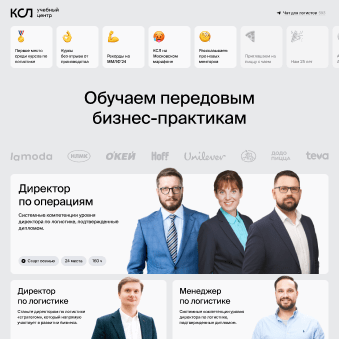
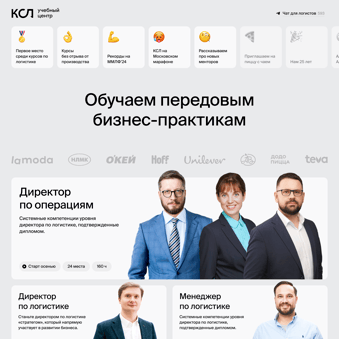
Home: smaller card mockups, new previews, rewritten year captions, впн note
- Card mockups at 80% width with 15% top and 10% side insets; centred,
  Almaz and multi-screenshot cards scaled to match; centred mockups
  sit 1% above centre
- New ReIndustry Expo and Учебный центр КСЛ previews
- ReIndustry colour #6C7E94 on the card, project page and theme-color
- Year captions rewritten, "студии Scada" as the link, Dribbble and
  Behance in Latin; non-breaking spaces after prepositions
- Gray "впн" note on hover next to Telegram and Марки Урала
- Cafe guide date in the primary text colour

diff --git a/index.html b/index.html
@@ -68,19 +68,19 @@
       </div>
       <nav class="navigation">
         <ul>
-          <li class="mainmenu__item"><a class="link" href="https://t.me/mshchr">Телеграм</a></li>
-          <li class="mainmenu__item"><a class="link" href="https://www.instagram.com/mxmeshcher">Марки Урала</a></li>
+          <li class="mainmenu__item"><a class="link" href="https://t.me/mshchr">Телеграм</a><span class="mainmenu__note">впн</span></li>
+          <li class="mainmenu__item"><a class="link" href="https://www.instagram.com/mxmeshcher">Марки Урала</a><span class="mainmenu__note">впн</span></li>
           <li class="mainmenu__item"><a class="link" href="cafes-moscow.html">Кофейни Москвы</a></li>
         </ul>
       </nav>
     </div>
-    <div class="feature"><span>В&nbsp;работе преследую чистоту и&nbsp;ясность. Мой&nbsp;подход инженерный, а&nbsp;не творческий. Отдельно люблю проекты, цель которых не&nbsp;только заработать.</span></div>
+    <div class="feature"><span>В&nbsp;работе преследую чистоту и&nbsp;ясность. Мой&nbsp;подход инженерный, а&nbsp;не&nbsp;творческий. Отдельно люблю проекты, цель которых не&nbsp;только заработать.</span></div>
     <div class="line"></div>
   </header>
   <main class="content">
         <section class="sideblock">
           <div class="sideblock__descr work__descr emerge" data-effect="slide" data-left="1em" data-duration="400">
-            <div class="sideblock__absolute"><div class="year">2016 — 2026</div><span>Клиентские сайты и&nbsp;веб-приложения, продукты студии <a href="https://www.scada.lv/">Scada</a></span></div>
+            <div class="sideblock__absolute"><div class="year">2016 — 2026</div><span>Проектирование и&nbsp;дизайн клиентских сайтов, веб-приложений и&nbsp;собственных продуктов <a href="https://www.scada.lv/">студии Scada</a></span></div>
           </div>
           <div class="project project--multi-octopus project--center project--full project--free-octopus emerge" data-ignore-media="true" data-effect="slide" data-up="4em" data-duration="400"><a href="octopus.html"><img fetchpriority="high" src="img/project-octopus-03-og.png" srcset="img/project-octopus-03-og.png 576w, img/project-octopus-03@2.png 1152w, img/project-octopus-03@3.png 2304w" sizes="(max-width: 767px) 70vw, (max-width: 1024px) 68vw, 46vw"><img fetchpriority="high" src="img/project-octopus-02-og.png" srcset="img/project-octopus-02-og.png 576w, img/project-octopus-02@2.png 1152w, img/project-octopus-02@3.png 2304w" sizes="(max-width: 767px) 70vw, (max-width: 1024px) 68vw, 46vw"><img fetchpriority="high" src="img/project-octopus-og.png" srcset="img/project-octopus-og.png 576w, img/project-octopus@2.png 1152w, img/project-octopus@3.png 2304w" sizes="(max-width: 767px) 78vw, (max-width: 1024px) 75vw, 51vw"></a><a class="project__caption" href="octopus.html"><span class="project__caption-fold"><span>Конструктор карт сайтов&nbsp;</span></span>Octopus</a>
           </div>
@@ -98,7 +98,7 @@
         </section>
         <section class="sideblock">
           <div class="sideblock__descr work__descr emerge" data-effect="slide" data-left="1em" data-duration="400">
-            <div class="sideblock__absolute"><div class="year">2024 — 2025</div><span>Проекты с командой <a href="https://www.ccl-logistics.ru/">КСЛ</a>, которые требовали расширенных компетенций дизайнера</span></div>
+            <div class="sideblock__absolute"><div class="year">2024 — 2025</div><span>Проекты с&nbsp;командой <a href="https://www.ccl-logistics.ru/">Координационного совета по&nbsp;логистике</a>, которые требовали от&nbsp;дизайнера дополнительных компетенций</span></div>
           </div>
           <div class="project project--multi-reindustry project--full project--free-reindustry emerge" data-ignore-media="true" data-effect="slide" data-up="4em" data-duration="400"><a href="reindustry.html"><img loading="lazy" src="img/project-reindustry-01-og.png" srcset="img/project-reindustry-01-og.png 600w, img/project-reindustry-01@2.png 1200w, img/project-reindustry-01@3.png 2400w" sizes="(max-width: 767px) 68vw, (max-width: 1024px) 56vw, 38vw"><img loading="lazy" src="img/project-reindustry-02-og.png" srcset="img/project-reindustry-02-og.png 350w, img/project-reindustry-02@2.png 700w, img/project-reindustry-02@3.png 1400w" sizes="(max-width: 767px) 54vw, (max-width: 1024px) 42vw, 29vw"></a><a class="project__caption" href="reindustry.html"><span class="project__caption-fold"><span>Выставка&nbsp;</span></span>ReIndustry</a>
           </div>
@@ -113,7 +113,7 @@
         </section>
         <section class="sideblock">
           <div class="sideblock__descr work__descr emerge" data-effect="slide" data-left="1em" data-duration="400">
-            <div class="sideblock__absolute"><div class="year">2020</div></h2><span>Сайты, концепции и&nbsp;арт-директинг отдельных проектов для&nbsp;старых клиентов</span></div>
+            <div class="sideblock__absolute"><div class="year">2020</div></h2><span>Новые проекты для&nbsp;прежних клиентов: дизайн сайтов, разработка концепций и&nbsp;арт-дирекшн</span></div>
           </div>
           <div class="project project--traktor emerge" data-ignore-media="true" data-effect="slide" data-up="4em" data-duration="400"><a href="traktor.html"><img loading="lazy" src="img/project-traktor-og.jpg" srcset="img/project-traktor-og.jpg 400w, img/project-traktor@2.jpg 800w, img/project-traktor@3.jpg 1600w" sizes="(max-width: 767px) 78vw, (max-width: 1024px) 38vw, 26vw"></a><a class="project__caption" href="traktor.html"><span class="project__caption-fold"><span>ХК&nbsp;«</span></span>Трактор<span class="project__caption-fold"><span>»</span></span></a>
           </div>
@@ -122,7 +122,7 @@
         </section>
         <section class="sideblock">
           <div class="sideblock__descr work__descr emerge" data-effect="slide" data-left="1em" data-duration="400">
-            <div class="sideblock__absolute"><div class="year">2015 — 2016</div><span>Сайты, веб-приложения, брендинг для&nbsp;клиентов с&nbsp;<a href="https://dribbble.com/lumpur">Дриббла</a> и&nbsp;<a href="https://www.behance.net/meshcheryakov">Биханса</a></span></div>
+            <div class="sideblock__absolute"><div class="year">2015 — 2016</div><span>Дизайн сайтов и&nbsp;брендинг для&nbsp;клиентов с&nbsp;<a href="https://dribbble.com/lumpur">Dribbble</a> и&nbsp;<a href="https://www.behance.net/meshcheryakov">Behance</a></span></div>
           </div>
           <div class="project project--multi project--full project--free emerge" data-ignore-media="true" data-effect="slide" data-up="4em" data-duration="400"><a href="thegem.html"><img loading="lazy" src="img/project-thegem-01-og.jpg" srcset="img/project-thegem-01-og.jpg 400w, img/project-thegem-01@2.jpg 800w, img/project-thegem-01@3.jpg 1600w" sizes="(max-width: 767px) 58vw, (max-width: 1024px) 48vw, 33vw"><img loading="lazy" src="img/project-thegem-02-og.jpg" srcset="img/project-thegem-02-og.jpg 400w, img/project-thegem-02@2.jpg 800w, img/project-thegem-02@3.jpg 1600w" sizes="(max-width: 767px) 54vw, (max-width: 1024px) 42vw, 29vw"><img loading="lazy" src="img/project-thegem-03-og.jpg" srcset="img/project-thegem-03-og.jpg 400w, img/project-thegem-03@2.jpg 800w, img/project-thegem-03@3.jpg 1600w" sizes="(max-width: 767px) 54vw, (max-width: 1024px) 42vw, 29vw"></a><a class="project__caption" href="thegem.html"><span class="project__caption-fold"><span>Шаблоны сайтов&nbsp;</span></span>The Gem</a>
           </div>
@@ -133,7 +133,7 @@
         </section>
         <section class="sideblock">
           <div class="sideblock__descr work__descr emerge" data-effect="slide" data-left="1em" data-duration="400">
-            <div class="sideblock__absolute"><div class="year">2014 — 2015</div><span>Клиентские сайты в&nbsp;<a href="https://www.xpage.ru/">Xpage</a></span></div>
+            <div class="sideblock__absolute"><div class="year">2014 — 2015</div><span>Дизайн клиентских сайтов в&nbsp;<a href="https://www.xpage.ru/">Xpage</a></span></div>
           </div>
               <div class="project project--multi-kb project--full project--free-kb emerge" data-ignore-media="true" data-effect="slide" data-up="4em" data-duration="400"><a href="kb.html"><img loading="lazy" src="img/project-kb-01-og.jpg" srcset="img/project-kb-01-og.jpg 600w, img/project-kb-01@2.jpg 1200w, img/project-kb-01@3.jpg 2400w" sizes="(max-width: 767px) 68vw, (max-width: 1024px) 56vw, 38vw"><img loading="lazy" src="img/project-kb-02-og.jpg" srcset="img/project-kb-02-og.jpg 600w, img/project-kb-02@2.jpg 1200w, img/project-kb-02@3.jpg 2400w" sizes="(max-width: 767px) 54vw, (max-width: 1024px) 42vw, 29vw"></a><a class="project__caption" href="kb.html"><span class="project__caption-fold"><span>Сеть&nbsp;«</span></span>К<span class="project__caption-fold"><span>расное</span></span>&amp;Б<span class="project__caption-fold"><span>елое</span></span><span class="project__caption-fold"><span>»</span></span></a>
               </div>
@@ -144,7 +144,7 @@
         </section>
         <section class="sideblock sideblock_last">
           <div class="sideblock__descr work__descr emerge" data-effect="slide" data-left="1em" data-duration="400">
-            <div class="sideblock__absolute"><div class="year">2011 — 2013</div><span>Внутренние проекты и&nbsp;клиентские сайты в <a href="https://www.soleit.ru/">Sole&nbsp;IT</a></span></div>
+            <div class="sideblock__absolute"><div class="year">2011 — 2013</div><span>Дизайн внутренних проектов и&nbsp;клиентских сайтов в&nbsp;<a href="https://www.soleit.ru/">Sole&nbsp;IT</a></span></div>
           </div>
               <div class="project project--soleit emerge" data-ignore-media="true" data-effect="slide" data-up="4em" data-duration="400"><a href="soleit.html"><img loading="lazy" src="img/project-soleit-og.jpg" srcset="img/project-soleit-og.jpg 320w, img/project-soleit@2.jpg 640w, img/project-soleit@3.jpg 1280w" sizes="(max-width: 767px) 78vw, (max-width: 1024px) 38vw, 26vw"></a><a class="project__caption" href="soleit.html"><span class="project__caption-fold"><span>Компания&nbsp;</span></span>Sole IT</a>
               </div>
@@ -162,7 +162,7 @@
       <!--<span class="footer__direction">Пишите в Телеграме: <a class="footer__link" href="https://t.me/mshchr">@mshchr</a></span>-->
             <span class="footer__direction"><!--<svg xmlns="http://www.w3.org/2000/svg" width="24" height="24" viewBox="0 0 24 24" fill="none">
             <path d="M18.3099 7.2625C18.3621 7.097 18.3621 6.93151 18.3099 6.71085C18.3099 6.60051 18.2057 6.43502 18.1536 6.37985C17.9972 6.21436 17.7366 6.21436 17.6323 6.21436C17.1632 6.21436 16.3812 6.49025 12.7846 8.09005C11.5336 8.64172 9.03168 9.74501 5.27888 11.5102C4.65339 11.7861 4.34064 12.0067 4.28852 12.2826C4.2429 12.6688 4.75763 12.8442 5.41062 13.0668C5.5033 13.0984 5.59878 13.131 5.69587 13.1652C6.37349 13.3859 7.2596 13.6617 7.72872 13.6617C8.14571 13.6617 8.61483 13.4962 9.13607 13.11C12.6284 10.5724 14.4527 9.30362 14.557 9.30362C14.5939 9.30362 14.6308 9.2967 14.6655 9.29021C14.7286 9.27838 14.7839 9.268 14.8176 9.30362C14.9219 9.41395 14.9219 9.52428 14.8697 9.57945C14.828 9.80019 12.7166 11.8934 11.768 12.8338C11.5313 13.0685 11.3669 13.2315 11.3253 13.2755C11.2294 13.377 11.1313 13.4741 11.0369 13.5676C10.4131 14.1852 9.933 14.6605 11.0647 15.427C11.4899 15.727 11.8444 15.9854 12.1861 16.2346C12.7239 16.6267 13.2303 16.9958 13.9315 17.4681C14.0965 17.5804 14.2535 17.6983 14.4062 17.8129C14.9286 18.2052 15.3996 18.5589 15.9643 18.5163C16.3292 18.4611 16.6941 18.1301 16.8505 17.082C17.3196 14.7098 18.1536 9.41395 18.3099 7.2625Z" fill="black"/>
-          </svg>--><a class="link" href="https://t.me/mshchr">Обсудить в Телеграме</a></span>
+          </svg>--><a class="link" href="https://t.me/mshchr">Обсудить в&nbsp;Телеграме</a></span>
     </div>
   </footer>
   <script src="js/lazy-video.js"></script>

diff --git a/css/styles.css b/css/styles.css
@@ -555,6 +555,26 @@ float: none;
 .mainmenu__item svg {
     display: none;
 }
+/* Подпись «впн» у пунктов, которые без него не открываются. Появляется
+   справа при наведении и не сдвигает соседние пункты */
+.navigation .mainmenu__item {
+    position: relative;
+}
+.mainmenu__note {
+    position: absolute;
+    left: 100%;
+    margin-left: 6px;
+    color: var(--color-text-muted);
+    white-space: nowrap;
+    opacity: 0;
+    pointer-events: none;
+}
+@media (hover: hover)
+{
+    .mainmenu__item:hover .mainmenu__note {
+        opacity: 1;
+    }
+}
 .noname {
   display: inline-block;
   height: 40px;
@@ -733,14 +753,13 @@ float: none;
 .project img, .project video
 {
     position: absolute;
-    /* Обычные карточки: макет по центру шириной 81,9%, низ уходит за
-       край. Отступ сверху 13,2% высоты карточки 4:3 — чуть больше бокового
-       (9,05% ширины), в той же пропорции 1,09, что и раньше. Карточка
+    /* Обычные карточки: макет по центру шириной 80%, по 10% полей слева
+       и справа, на 15% от верха карточки, низ уходит за край. Карточка
        держит соотношение сторон, поэтому композиция одинаковая на любой
        ширине */
-    top: 13.2%;
-    left: 9.05%;
-    width: 81.9%;
+    top: 15%;
+    left: 10%;
+    width: 80%;
     -webkit-transition: -webkit-transform var(--transition-base), opacity 400ms ease-out;
             transition: transform var(--transition-base), opacity 400ms ease-out;
     -o-object-fit: contain;
@@ -839,28 +858,29 @@ float: none;
    карточки 4:3, и с 768px, где большие карточки 5:3 */
 .project--multi, .project--multi-kb, .project--multi-reindustry
 {
-    --mock-side: 5.9%;
-    /* Верх переднего скриншота относится к боковому полю так же, как
-       раньше (15% высоты при поле 8%) */
-    --mock-top: 11%;
-    --mock-step: 8.4%;
-    --mock-back: 56.7%;
-    --mock-front: 60.9%;
+    /* Размеры в той же пропорции к обычным карточкам (макет 80%), что и
+       раньше: всё умножено на 80 / 81,9. Отступ сверху в пикселях чуть
+       больше бокового, как у обычных карточек */
+    --mock-side: 6.9%;
+    --mock-top: 13%;
+    --mock-step: 8.2%;
+    --mock-back: 55.4%;
+    --mock-front: 59.5%;
 }
 .project--multi-kb, .project--multi-reindustry
 {
-    --mock-front: 71.4%;
+    --mock-front: 69.7%;
 }
 @media (min-width: 768px)
 {
     .project--multi, .project--multi-kb, .project--multi-reindustry
     {
-        --mock-back: 44.1%;
-        --mock-front: 50.4%;
+        --mock-back: 43.1%;
+        --mock-front: 49.2%;
     }
     .project--multi-kb, .project--multi-reindustry
     {
-        --mock-front: 58.8%;
+        --mock-front: 57.4%;
     }
 }
 .project--multi img:first-child, .project--multi video:first-child
@@ -955,14 +975,14 @@ float: none;
 .project--side img, .project--side video
 {
     /* Левый край макета на одной линии с левым краем макетов обычных
-       карточек (9,05% ширины), правый уходит за край; по высоте макет
-       по центру */
-    top: 10.55%;
+       карточек (10% ширины), правый уходит за край; высота уменьшена
+       в той же пропорции, по высоте макет по центру */
+    top: 10.95%;
     right: -2%;
     left: auto;
 
-    width: 92.95%;
-    height: 78.9%;
+    width: 92%;
+    height: 78.1%;
 }
 .project--center a:not(.project__caption)
 {
@@ -985,14 +1005,16 @@ float: none;
 }
 .project--center img, .project--center video
 {
-    top: 0%;
-    width: 81.9%;
-    height: 81.9%;
+    /* По центру карточки, но на 1% её высоты выше: верх и низ рамки
+       сдвинуты вверх на одинаковую величину */
+    top: -1%;
+    width: 80%;
+    height: 80%;
     overflow: auto;
     margin: auto;
     position: absolute;
     left: 0;
-    bottom: 0;
+    bottom: 1%;
     right: 0;
 }
 .project-lock {
@@ -1347,7 +1369,7 @@ float: none;
 /* Карточка ReIndustry того же цвета, что и фон страницы проекта */
 .project--free-reindustry, .inner--free
 {
-    --project-bg: #788A9F;
+    --project-bg: #6C7E94;
     background-color: var(--project-bg);
 }
 .project--free-octopus, .inner--free
@@ -1477,7 +1499,7 @@ float: none;
 }
 .inner--reindustry, body:has(.inner--reindustry)
 {
-    background-color: #788A9F;
+    background-color: #6C7E94;
 }
 .project--learningcenter
 {
@@ -2229,7 +2251,7 @@ float: none;
   margin: -7px 18px 16px 0;
 }
 .guideupdate {
-  color: var(--color-text-muted);
+  color: var(--color-text-primary);
 }
 .guide__footer-links {
   font-size: var(--font-size-body);

diff --git a/reindustry.html b/reindustry.html
@@ -4,7 +4,7 @@
     <title>ReIndustry Expo</title>
     <meta charset="UTF-8">
     <meta name="viewport" content="width=device-width, initial-scale=1">
-    <meta name="theme-color" content="#788A9F">
+    <meta name="theme-color" content="#6C7E94">
     <link rel="stylesheet" href="css/styles.css">
     <link rel="apple-touch-icon" sizes="180x180" href="apple-touch-icon.png">
     <link rel="icon" type="image/png" sizes="32x32" href="favicon-32x32.png">
